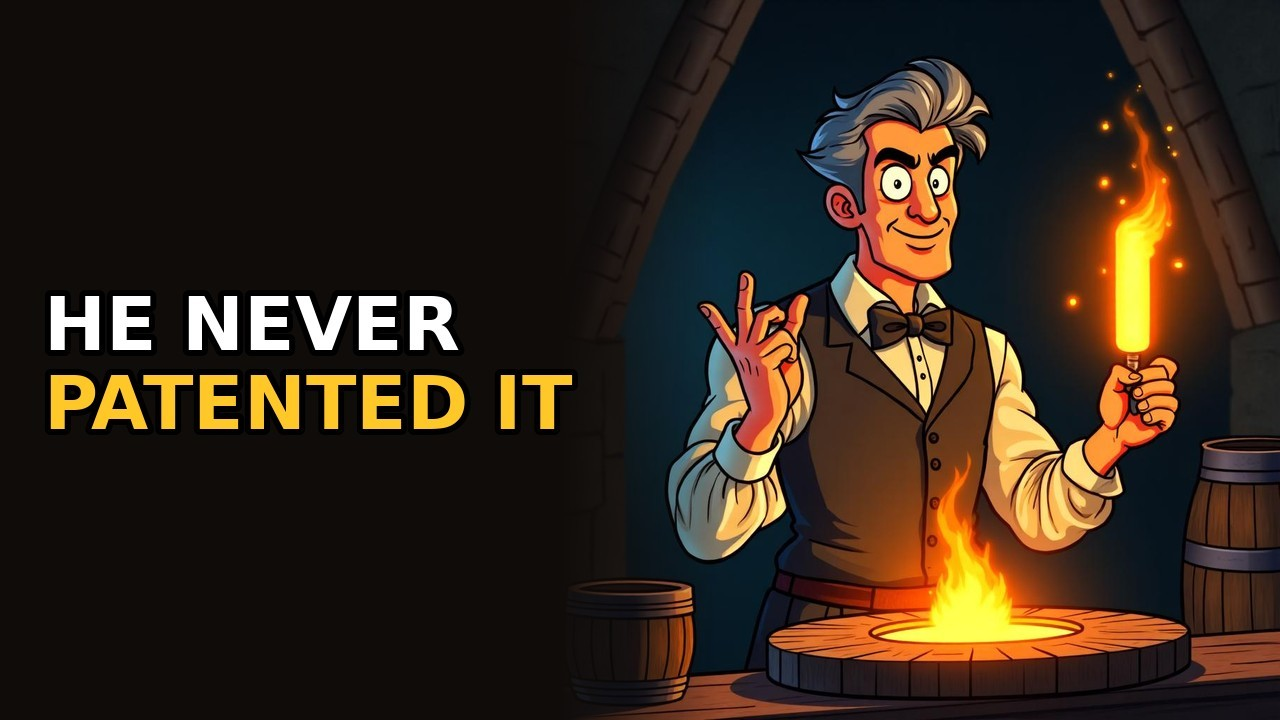
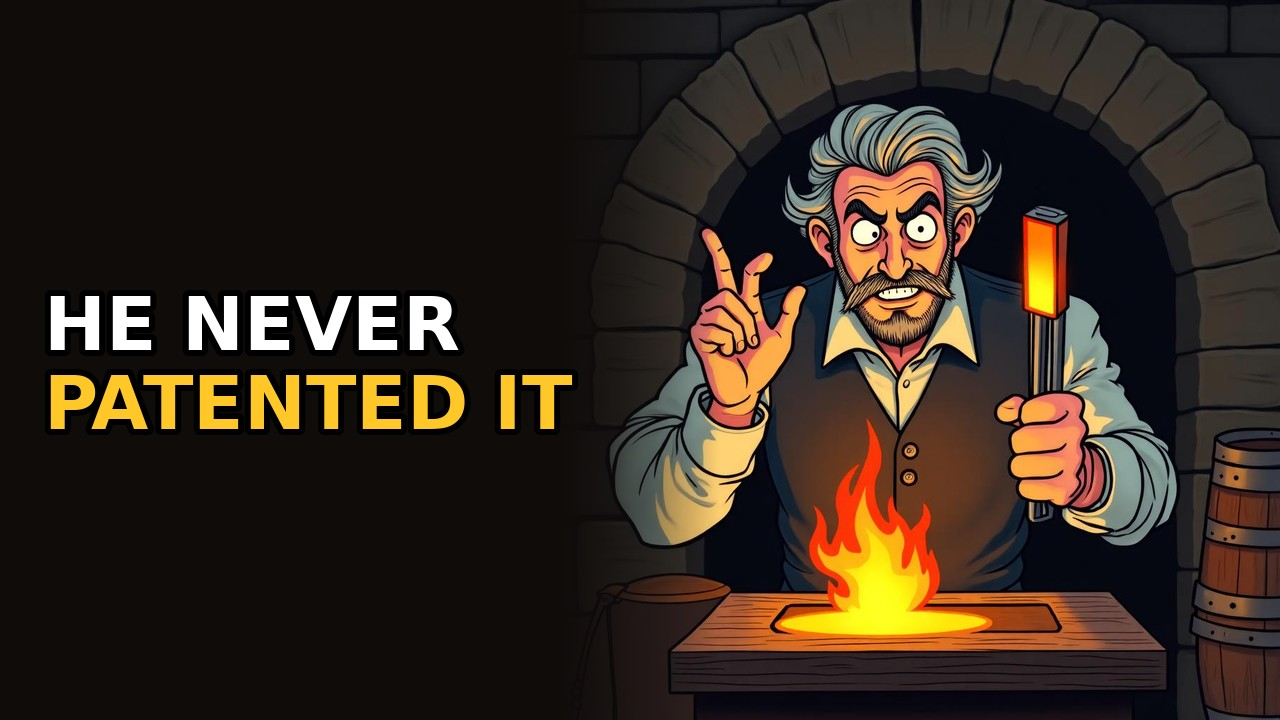
002 thumbnail pick v2
Claude-Session: https://claude.ai/code/session_019LBx2AtwqgkRAG337QZHGw

diff --git a/out/002/meta.md b/out/002/meta.md
@@ -7,7 +7,7 @@ tags: Mushet steel, Robert Forester Mushet, self-hardening steel, air hardening 
 thumb_key: lathe
 thumb_text: HE NEVER|PATENTED IT
 thumb_prompt: A Victorian ironmaster with grey mutton chop sideburns and a waistcoat holds one finger to his lips in a sly secretive shh gesture, winking. In his other hand, held with tongs, a glowing orange steel tool bar cools by itself in the air. Behind him a confused blacksmith stares at an empty water quench bucket. Dim stone forge with wooden barrels. The ironmaster's face and the glowing bar are large and centered.
-thumb_pick: 1
+thumb_pick: 2
 ---
 
 Front matter only. The full script of 002 was lost before it was committed (the run failed at upload).
